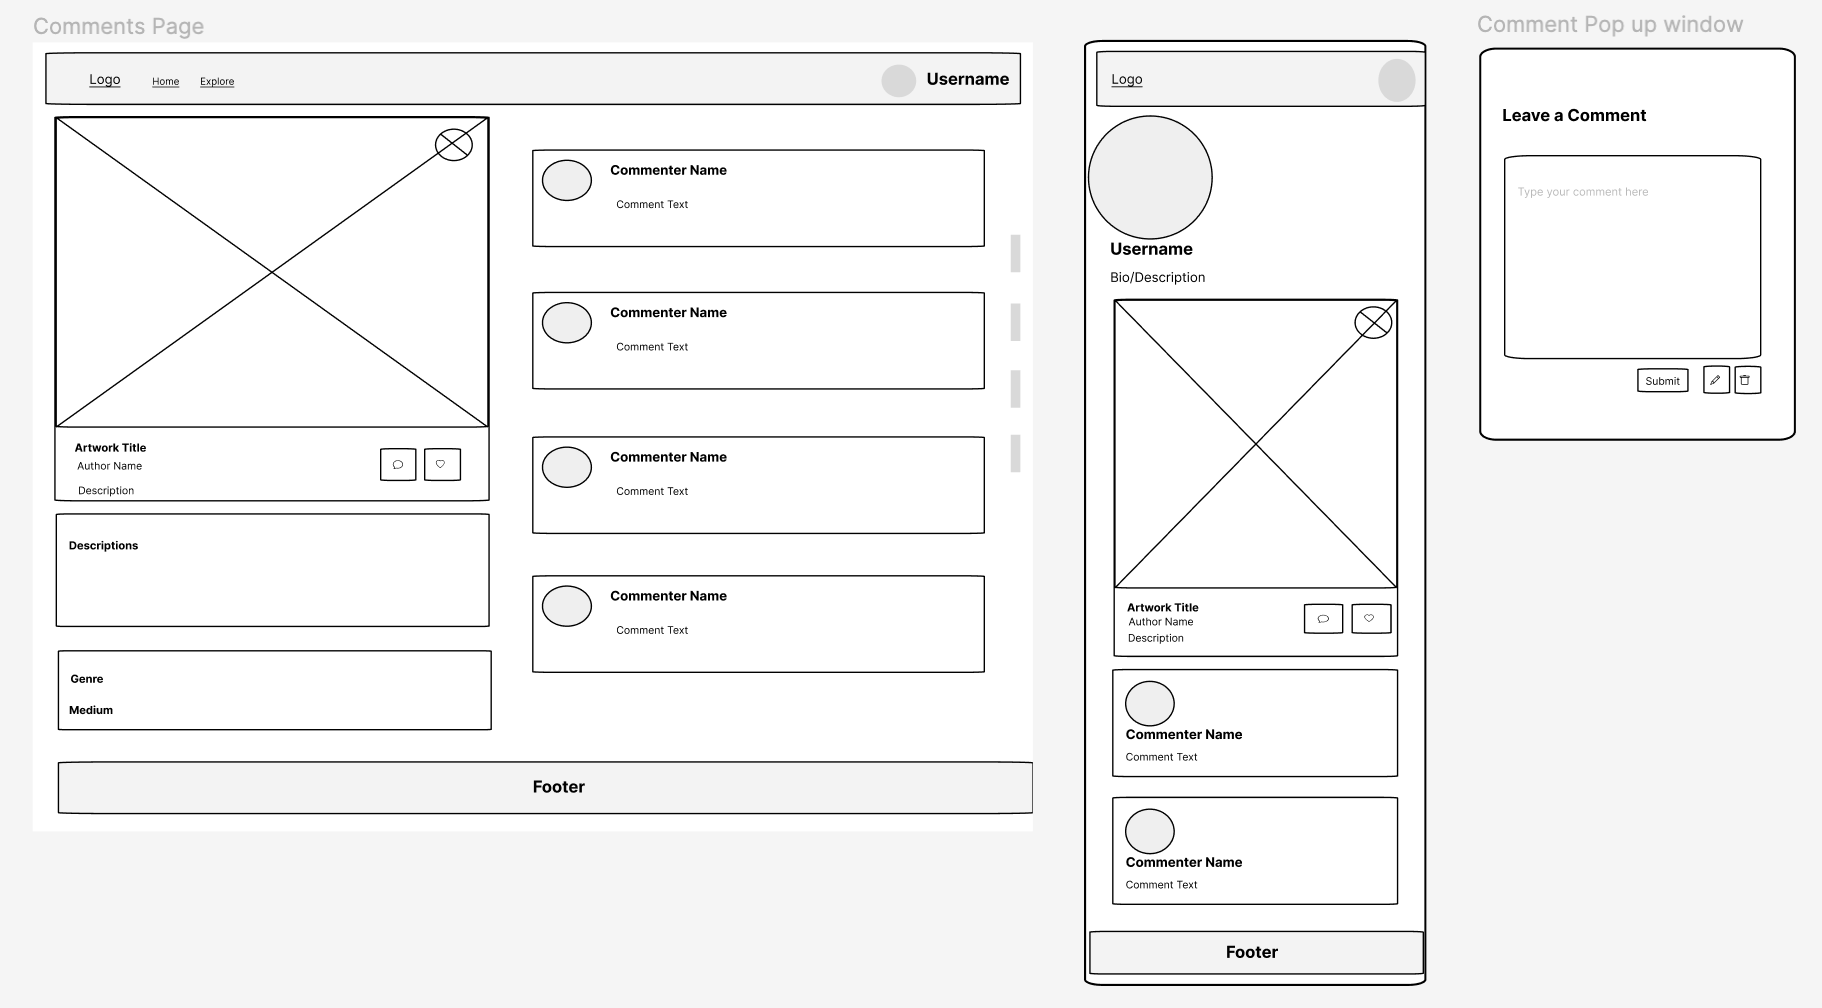
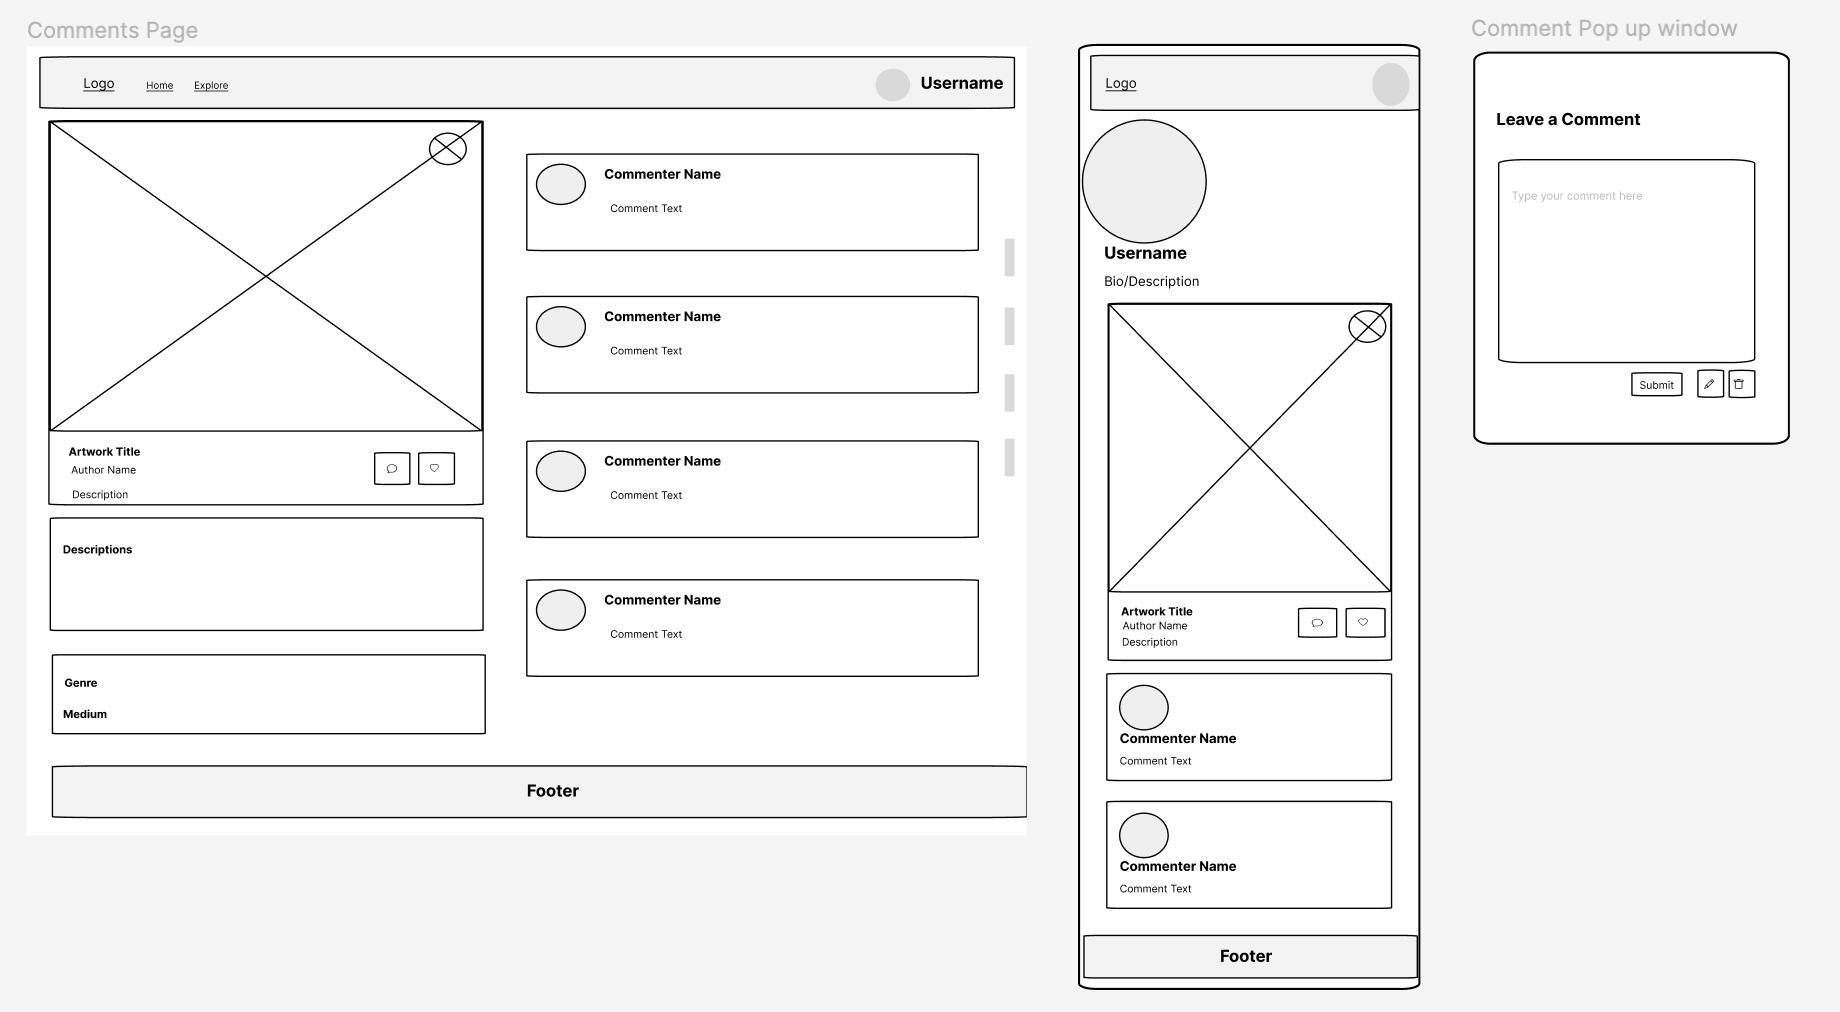
update wireframes

diff --git a/README.md b/README.md
@@ -150,6 +150,10 @@ Our idea is for an Online art gallery where artists and art enthusiasts can gath
 
 ![profilepage](./docs/wireframes/Profile%20Page.png)
 
+### Setting Page:
+
+![settingpage](./docs/wireframes/Setting%20Page.png)
+
 ### Upload Artwork Page:
 
 ![uploadartworkpage](./docs/wireframes/Upload%20Artwork%20Page%20.png)
@@ -162,9 +166,9 @@ Our idea is for an Online art gallery where artists and art enthusiasts can gath
 
 ![gallerypage](./docs/wireframes/Gallery%20Page.png)
 
-### Artwork Page:
+### Comments Page:
 
-![artworkpage](./docs/wireframes//Artwork%20page.png)
+![artworkpage](./docs/wireframes/Comments%20Page.png)
 
 ### Admin Page:
 
